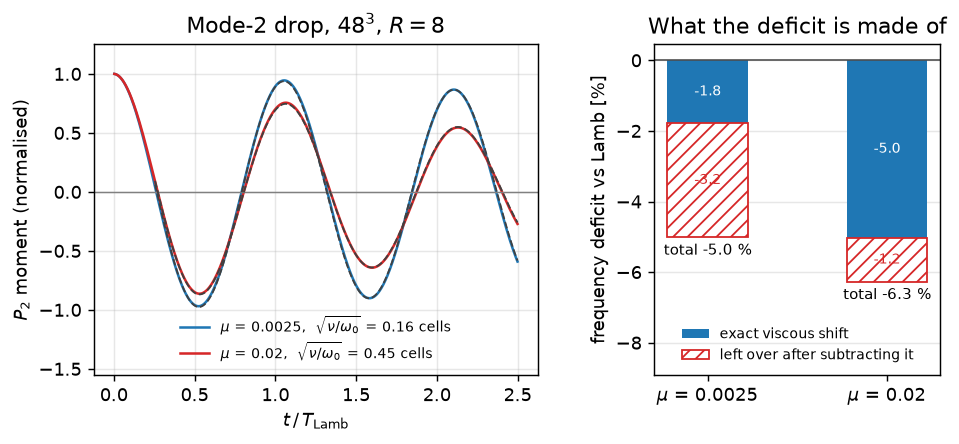
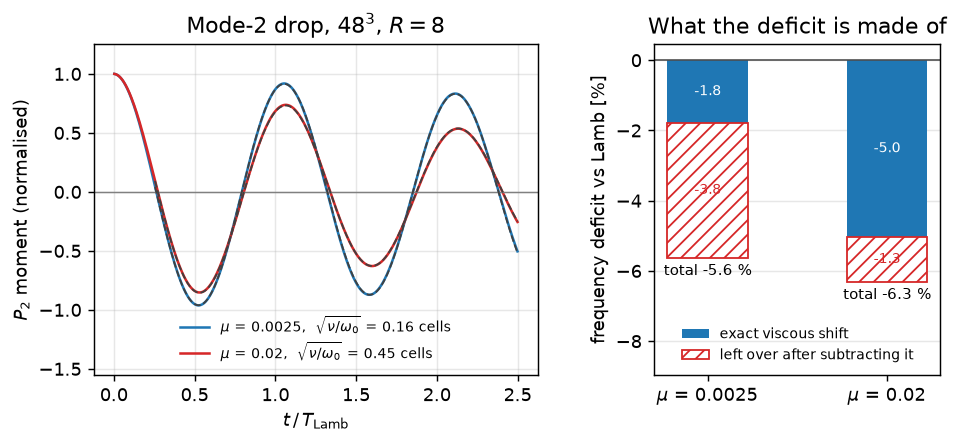
capillary-oscillations: re-rendered on peclet 1.1.0 — the HF tier is back
Re-executed against peclet-cu13 1.1.0 FROM PyPI (RTX 5080, execution_space:
Cuda), not a local build, so these numbers are what a user gets.

The curvature-branch census closes the top open entry in ISSUES.md:

  build                              HF   PLIC   fallback   damping(mu=0.0025)
  pre-1.0.0 freeze (2026-09-02)     791    464     37.0 %   1.460e-3
  1.0.0 (the regression)            129   1109     89.6 %   1.029e-3
  1.1.0, this re-render             783    460     37.0 %   1.409e-3

Back to the pre-regression tier selection to within a few cells in ~1240, and
branch 6 ("no estimate!", the defect branch) is empty at both viscosities.

The cause was never the commit the entry suspected. It was a disagreement about
what a PURE cell is: enable_vof sets wispEps = 1e-8, cells inside that tolerance
are fluxed algebraically and carry bulk liquid at 1 - O(1e-9), and the height
function judged purity at its own hard-coded 1e-10 and rejected them. core's
hfColumnHeight now takes the tolerance; flow passes the advector's wispEps.

Left open deliberately, and written into the entry: the ~4 % INVISCID deficit in
the drop frequency is untouched — it was never the curvature tier — and the
2.7-point CUDA/OpenMP damping spread wants re-measuring now that tier selection
is correct, since it was observed on a build where 90 % of cells were on the
fallback path.

Claude-Session: https://claude.ai/code/session_015oTxBzztjajN9wPUYRPWaL

diff --git a/ISSUES.md b/ISSUES.md
@@ -22,7 +22,7 @@ into the `peclet` suite. See [STYLE_GUIDE.md §8](STYLE_GUIDE.md): log it here
 
 ## Height-function curvature falls back to the PLIC paraboloid on ~90 % of interface cells (was 37 %), and the droplet damping deficit doubles with it
 
-- **Status:** open, NOT a backend difference — reproduced on CUDA and OpenMP from the same source
+- **Status:** RESOLVED in peclet 1.1.0 (core `e6a612d` + flow `28d3224`); verified 2026-09-16 by re-rendering this page against the PUBLISHED `peclet-cu13` 1.1.0 wheels — see the resolution at the end of the entry
 - **Package / area:** flow (VoF curvature: height function vs PLIC paraboloid)
 - **Found in:** examples/capillary-oscillations, during the 1.0.0 gallery re-render (2026-09-14)
 - **Observed:** the page's own curvature-branch census, same page, same inputs, three builds:
@@ -92,6 +92,41 @@ into the `peclet` suite. See [STYLE_GUIDE.md §8](STYLE_GUIDE.md): log it here
   smaller observation: the suite's standing position is that a backend is a faithful port, and a
   page-level observable differing by 4 % relative is worth its own look once the main change is
   understood.
+
+### Resolution (2026-09-16, peclet 1.1.0)
+
+The suspected commit was innocent and the real cause was a **disagreement about what a pure cell
+is** — the same mechanism that had already been fixed once for phase change. `enable_vof` sets the
+Weymouth–Yue advector's `wispEps = 1e-8`; a cell inside that tolerance is fluxed *algebraically* and
+never reconstructed back onto exactly 1.0, so the colour field legitimately carries bulk liquid at
+`1 - O(1e-9)`. The height function judged purity at its own hard-coded `1e-10`, two orders tighter,
+found no pure end to the column, and rejected it. Cells drifted into the band between the two
+tolerances as a run went on, which is why it degraded *progressively* and why nothing went red — a
+paraboloid fallback is a valid answer.
+
+`core`'s `hfColumnHeight` now **takes** the tolerance (`pureEps`, floored at `kHfPureEps = 1e-10`
+and defaulted to it, so the default path is bit-identical); `flow`'s `Solver::computeVofCurvature`
+passes the advector's `wispEps` at the point of use.
+
+Re-rendered on 2026-09-16 against `peclet-cu13` 1.1.0 **from PyPI** (RTX 5080, `execution_space:
+Cuda`) — not a local build, so this is what a user gets:
+
+| build | HF | HF (other dir) | PLIC paraboloid | fallback % | drop damping (mu=0.0025) |
+|---|---|---|---|---|---|
+| committed freeze (pre-1.0.0, 2026-09-02) | 791 | 0 | 464 | **37.0 %** | 1.460e-3 |
+| 1.0.0, CUDA | 129 | 0 | 1109 | **89.6 %** | 1.029e-3 |
+| 1.0.0, OpenMP | 132 | 2 | 1109 | **89.6 %** | — |
+| **1.1.0 wheel, this re-render** | **783** | **0** | **460** | **37.0 %** | **1.409e-3** |
+
+Back to the pre-regression tier selection to within a few cells in ~1240, and branch 6 ("no
+estimate!", the defect branch) is empty at both viscosities. The `mu = 0.02` row of the same census
+reads 756 / 445 / 37.1 %.
+
+**Still open, carried forward as its own question:** the ~4 % *inviscid* deficit in the drop
+frequency that does not shrink with resolution (the page states it as an unattributed measured
+deviation) is untouched by this fix — it was never the curvature tier. The 2.7-point CUDA/OpenMP
+spread noted above should be re-measured now that the tier selection is correct; it was observed on
+the regressed build, where 90 % of cells were on the fallback path, so it may not survive.
 
 ---
 
